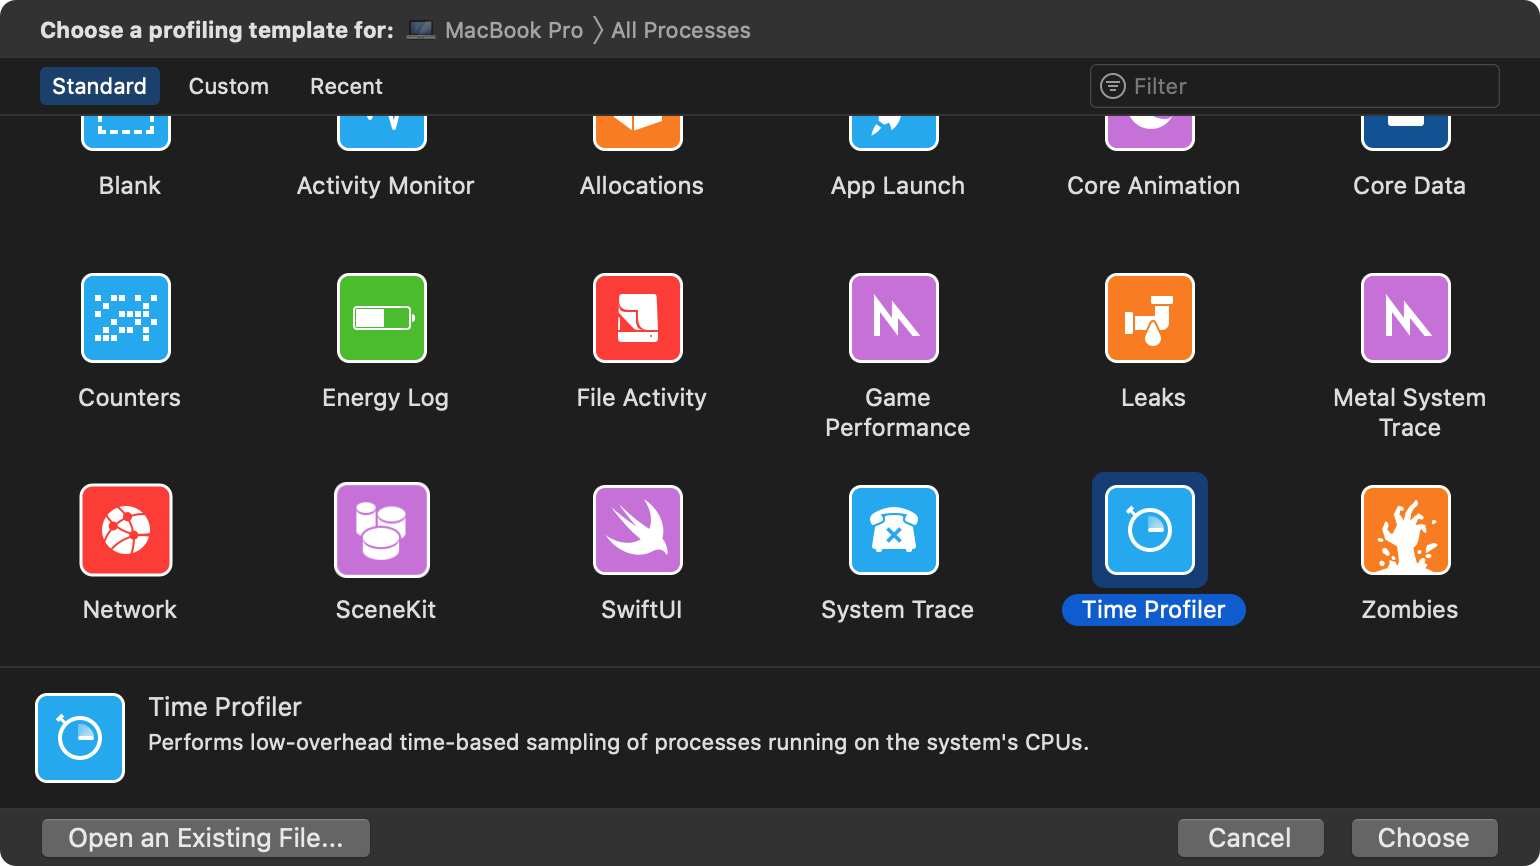
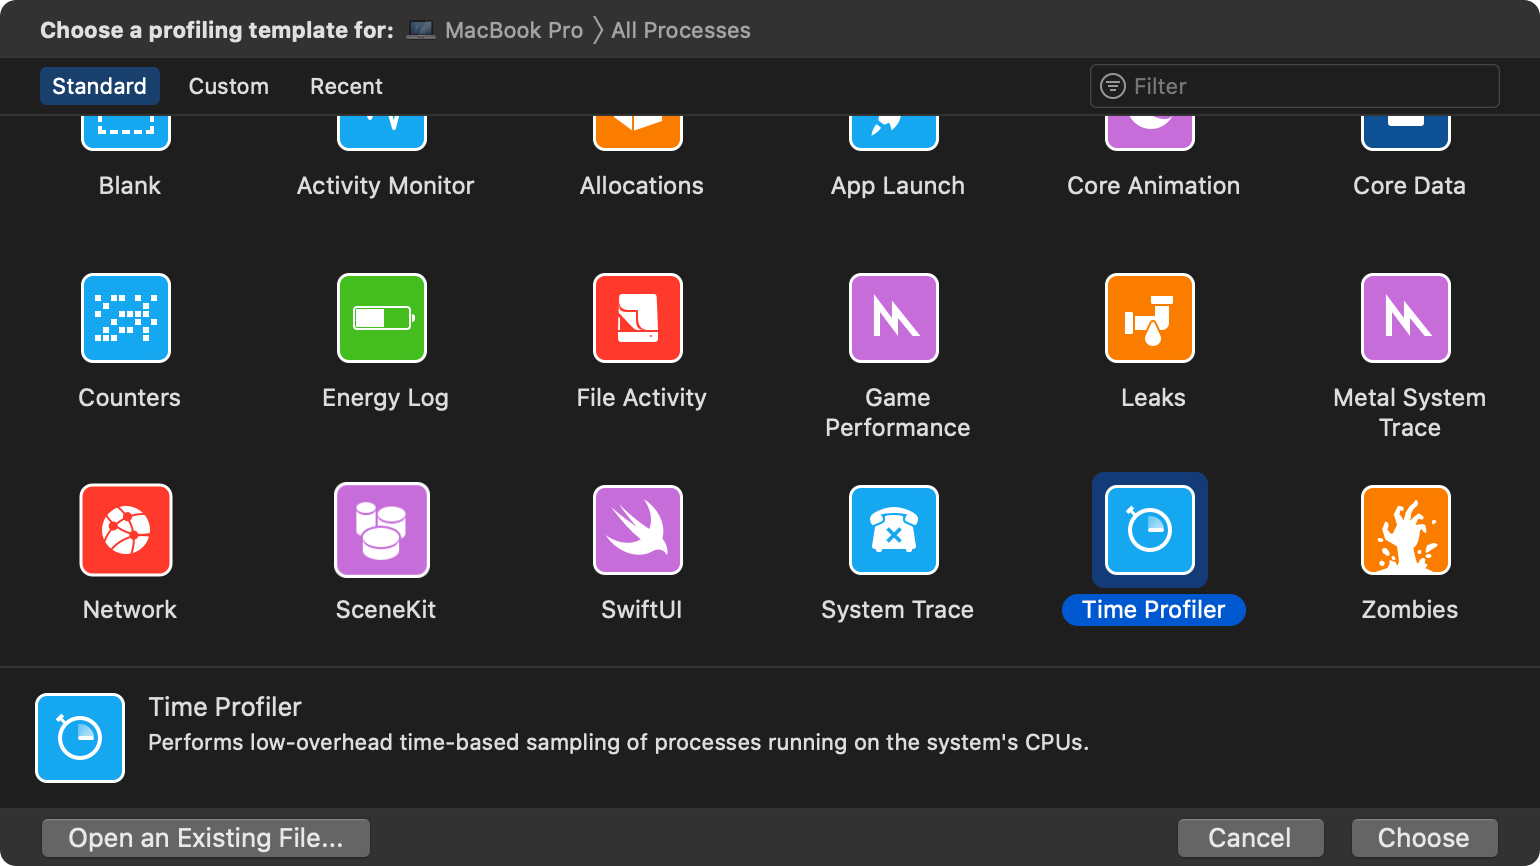
feat: compress pic

Changed region(s): [[0.8727, 0.5612, 0.9662, 0.6547], [0.7169, 0.3118, 0.7792, 0.4365], [0.374, 0.1247, 0.4675, 0.1871]]

diff --git a/source/_posts/ios-app-launch-optimization.md b/source/_posts/ios-app-launch-optimization.md
@@ -16,6 +16,7 @@ thumbnail: app-launch.png
 ## 热启动与冷启动
 
 当用户按下 home 键，iOS App 不会立刻被 kill，而是存活一段时间，这段时间里用户再打开 App，App 基本上不需要做什么，就能还原到退到后台前的状态。我们把 App 进程还在系统中，无需开启新进程的启动过程称为**热启动**。
+
 而**冷启动**则是指 App 不在系统进程中，比如设备重启后，或是手动杀死 App 进程，又或是 App 长时间未打开过，用户再点击启动 App 的过程，这时需要创建一个新进程分配给 App。我们可以将冷启动看作一次完整的 App 启动过程，本文讨论的就是冷启动的优化。
 
 ## 冷启动概要
@@ -248,7 +249,7 @@ Rebase 和 Binding 属于静态调整（fix-up），修改的是 `__DATA` 段中
 
 这里介绍两种查看 `main()` 阶段耗时的方法。
 
-**方法一**：手动插入代码，进行耗时计算。
+**方法一：手动插入代码，进行耗时计算。**
 
 ```objc
 // 第一步：在 main() 函数里用变量 MainStartTime 记录当前时间
@@ -268,7 +269,7 @@ double mainLaunchTime = (CFAbsoluteTimeGetCurrent() - MainStartTime);
 NSLog(@"main() 阶段耗时：%.2fms", mainLaunchTime * 1000);
 ```
 
-**方法二**：借助 Instruments 的 Time Profiler 工具查看耗时。
+**方法二：借助 Instruments 的 Time Profiler 工具查看耗时。**
 
 打开方式为：`Xcode → Open Developer Tool → Instruments → Time Profiler`。
 
